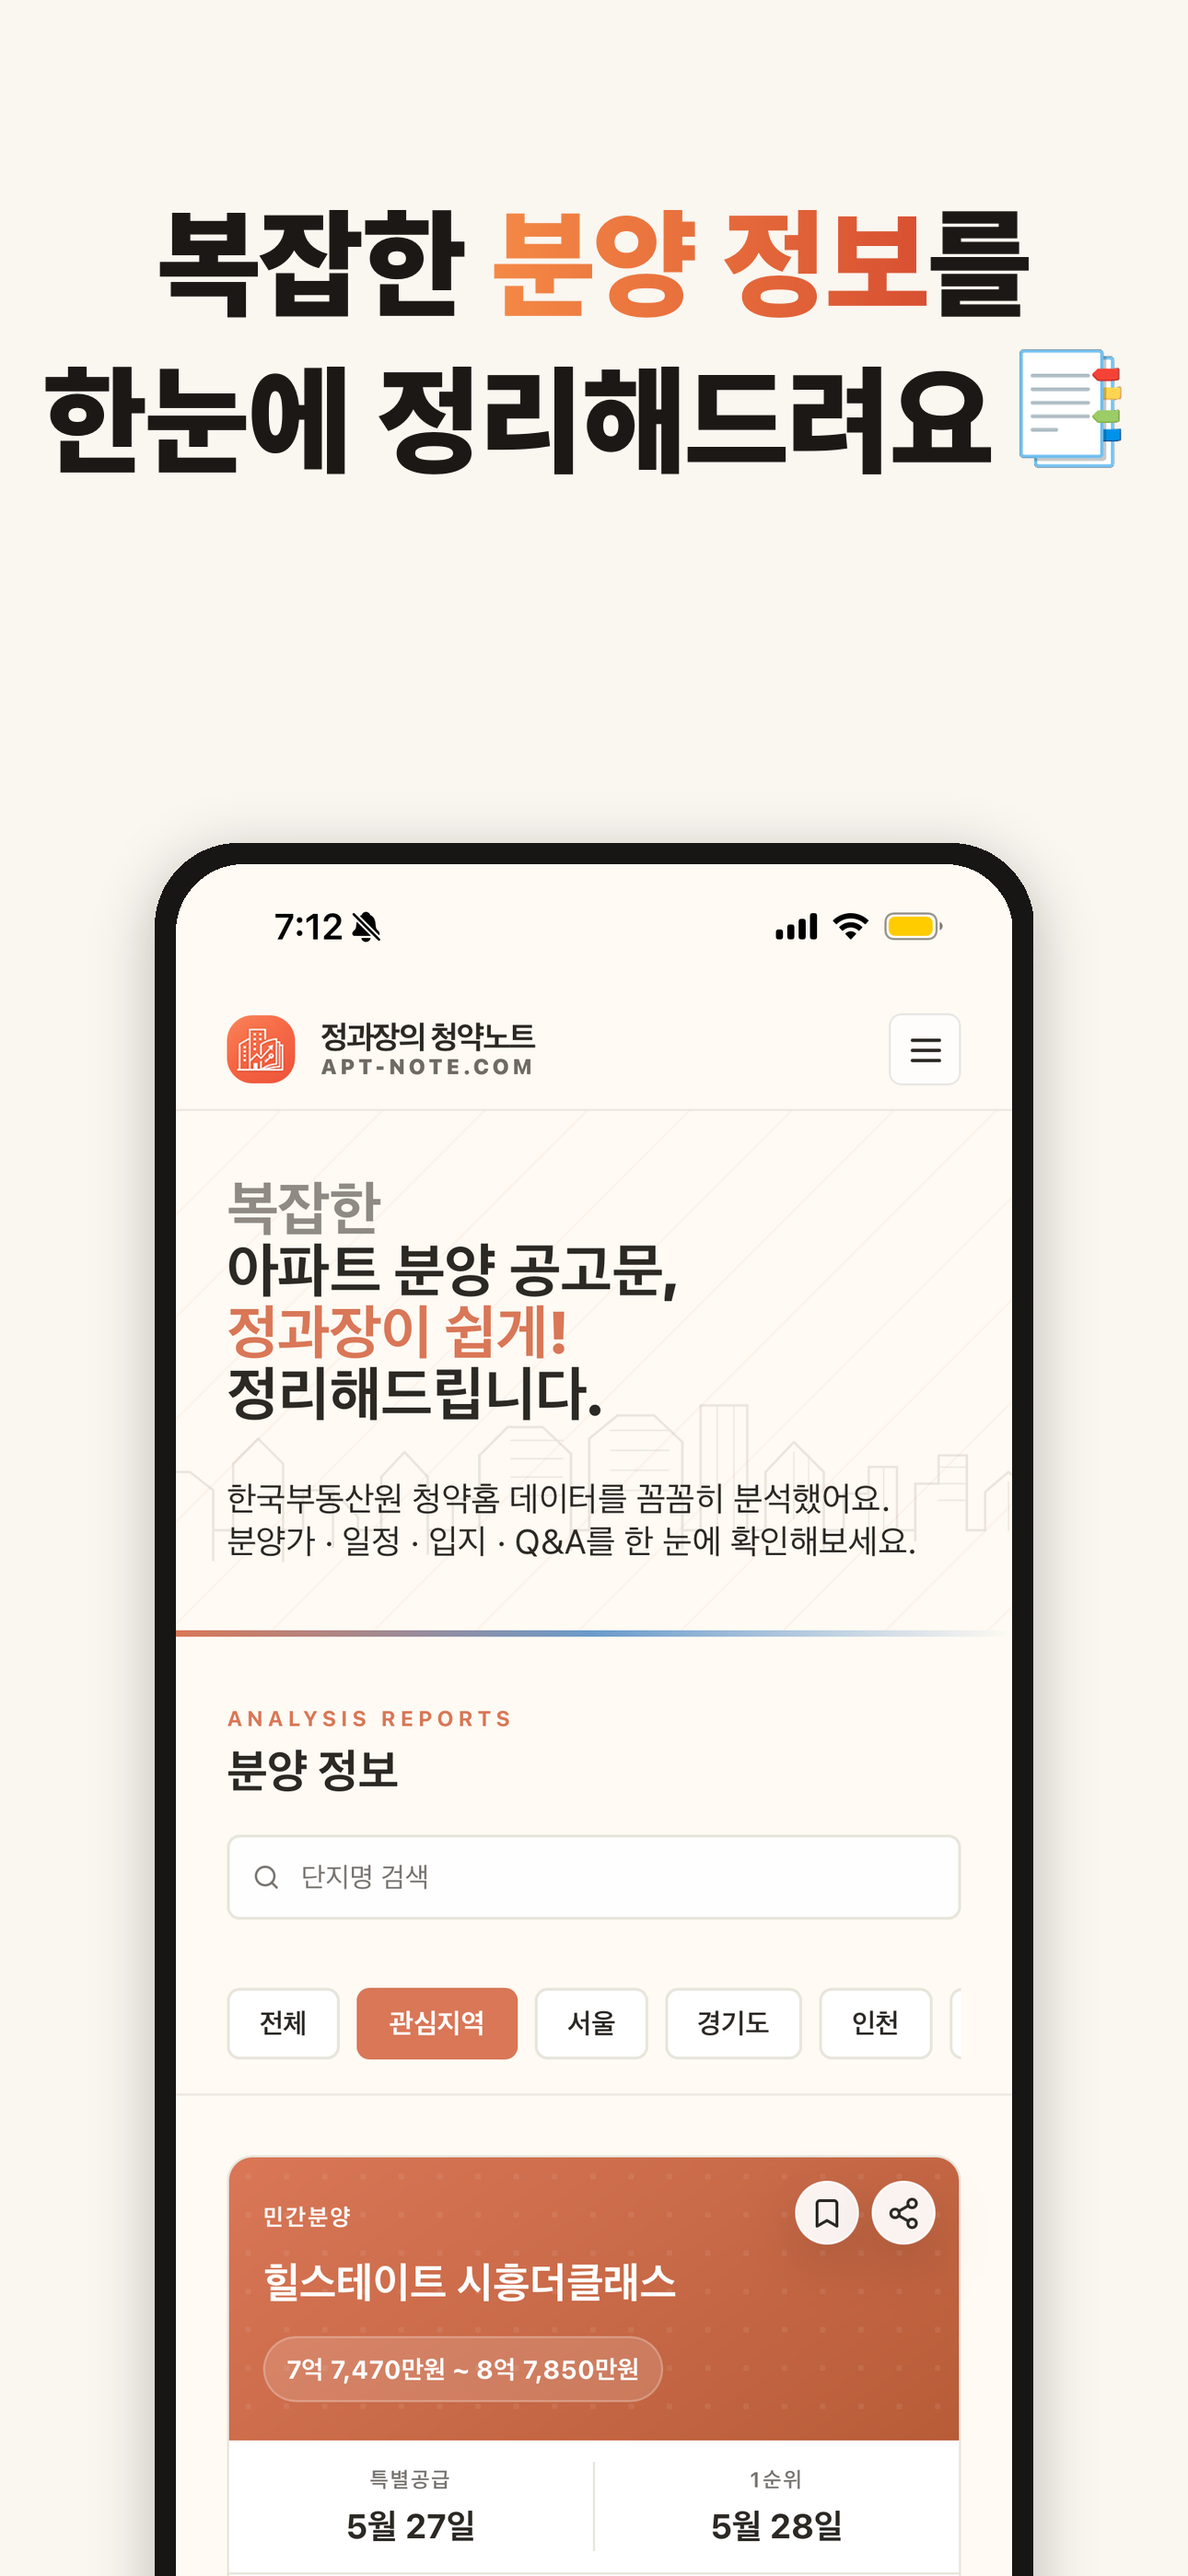
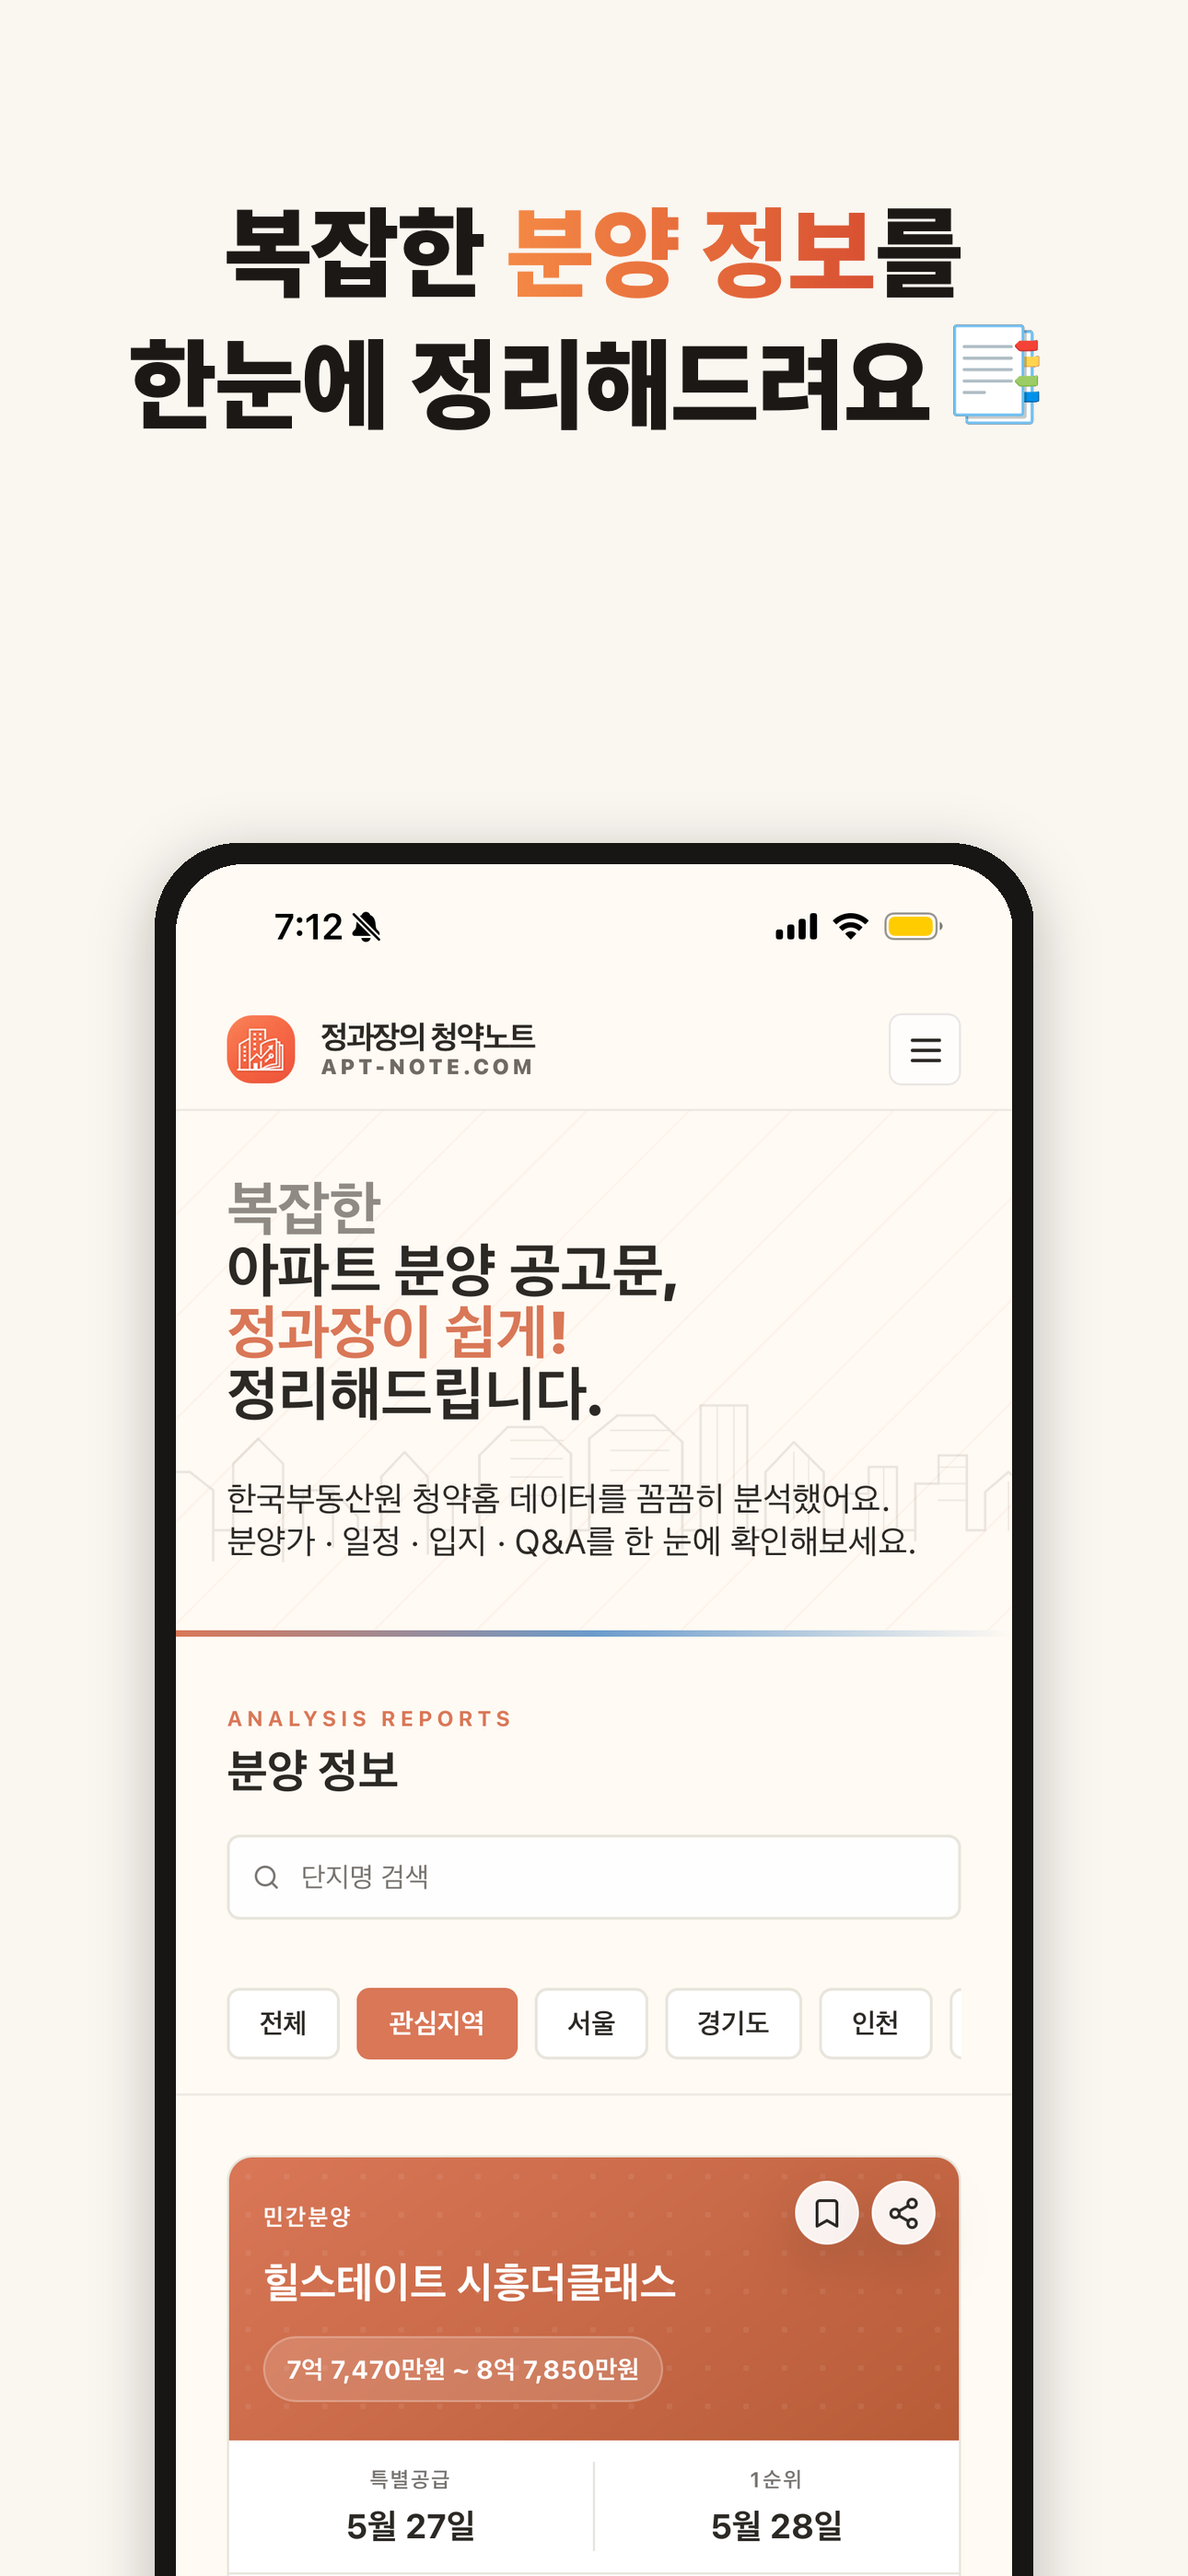
style(promo): 헤드라인 폰트 크기 -15% 적용 (가독성/여백 개선)
- 본문 헤드라인: width*0.10 → 0.085
- 인트로 헤드라인: width*0.128 → 0.1088
- 인트로 태그라인: width*0.115 → 0.0978

https://claude.ai/code/session_01GRiH8Ra4V3Zssk4NEqQ4Li

Changed region(s): [[0.031, 0.0622, 0.9612, 0.1867]]

diff --git a/scripts/build_promo_images.py b/scripts/build_promo_images.py
@@ -74,7 +74,7 @@ class CanvasSpec:
     # Headline metrics — sized off width so long Korean lines never overflow
     @property
     def headline_size(self) -> int:
-        return int(self.width * 0.10)
+        return int(self.width * 0.085)
 
     @property
     def headline_top(self) -> int:
@@ -104,7 +104,7 @@ class CanvasSpec:
     # Text-only intro layout — width-bound for headline width safety
     @property
     def intro_headline_size(self) -> int:
-        return int(self.width * 0.128)
+        return int(self.width * 0.1088)
 
     @property
     def intro_headline_top(self) -> int:
@@ -116,7 +116,7 @@ class CanvasSpec:
 
     @property
     def intro_tagline_size(self) -> int:
-        return int(self.width * 0.115)
+        return int(self.width * 0.0978)
 
     @property
     def intro_tagline_top(self) -> int:
